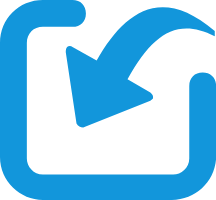
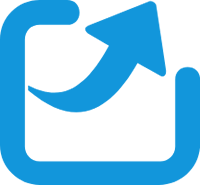
fix

Changed region(s): [[0.12, 0.0, 1.0, 0.6486], [0.06, 0.027, 0.09, 0.0541]]

diff --git a/woterm/qwomainwindow.cpp b/woterm/qwomainwindow.cpp
@@ -257,8 +257,14 @@ void QWoMainWindow::initToolBar()
     QAction *openTerm = tool->addAction(QIcon(":/qwoterm/resource/skin/manage.png"), tr("Manage"));
     QObject::connect(openTerm, SIGNAL(triggered()), this, SLOT(onOpenTerm()));
 
-    QAction *lay = tool->addAction(QIcon(":/qwoterm/resource/skin/layout.png"), tr("List"));
+    QAction *lay = tool->addAction(QIcon(":/qwoterm/resource/skin/list.png"), tr("List"));
     QObject::connect(lay, SIGNAL(triggered()), this, SLOT(onLayout()));
+
+    QAction *import = tool->addAction(QIcon(":/qwoterm/resource/skin/import.png"), tr("Import"));
+    QObject::connect(import, SIGNAL(triggered()), this, SLOT(onActionImportTriggered()));
+
+    QAction *myexport = tool->addAction(QIcon(":/qwoterm/resource/skin/export.png"), tr("Export"));
+    QObject::connect(myexport, SIGNAL(triggered()), this, SLOT(onActionExportTriggered()));
 }
 
 void QWoMainWindow::initStatusBar()

diff --git a/woterm/qwoshower.cpp b/woterm/qwoshower.cpp
@@ -10,6 +10,7 @@
 #include <QDebug>
 #include <QPainter>
 #include <QApplication>
+#include <QIcon>
 
 #define TAB_TYPE_NAME ("tabtype")
 
